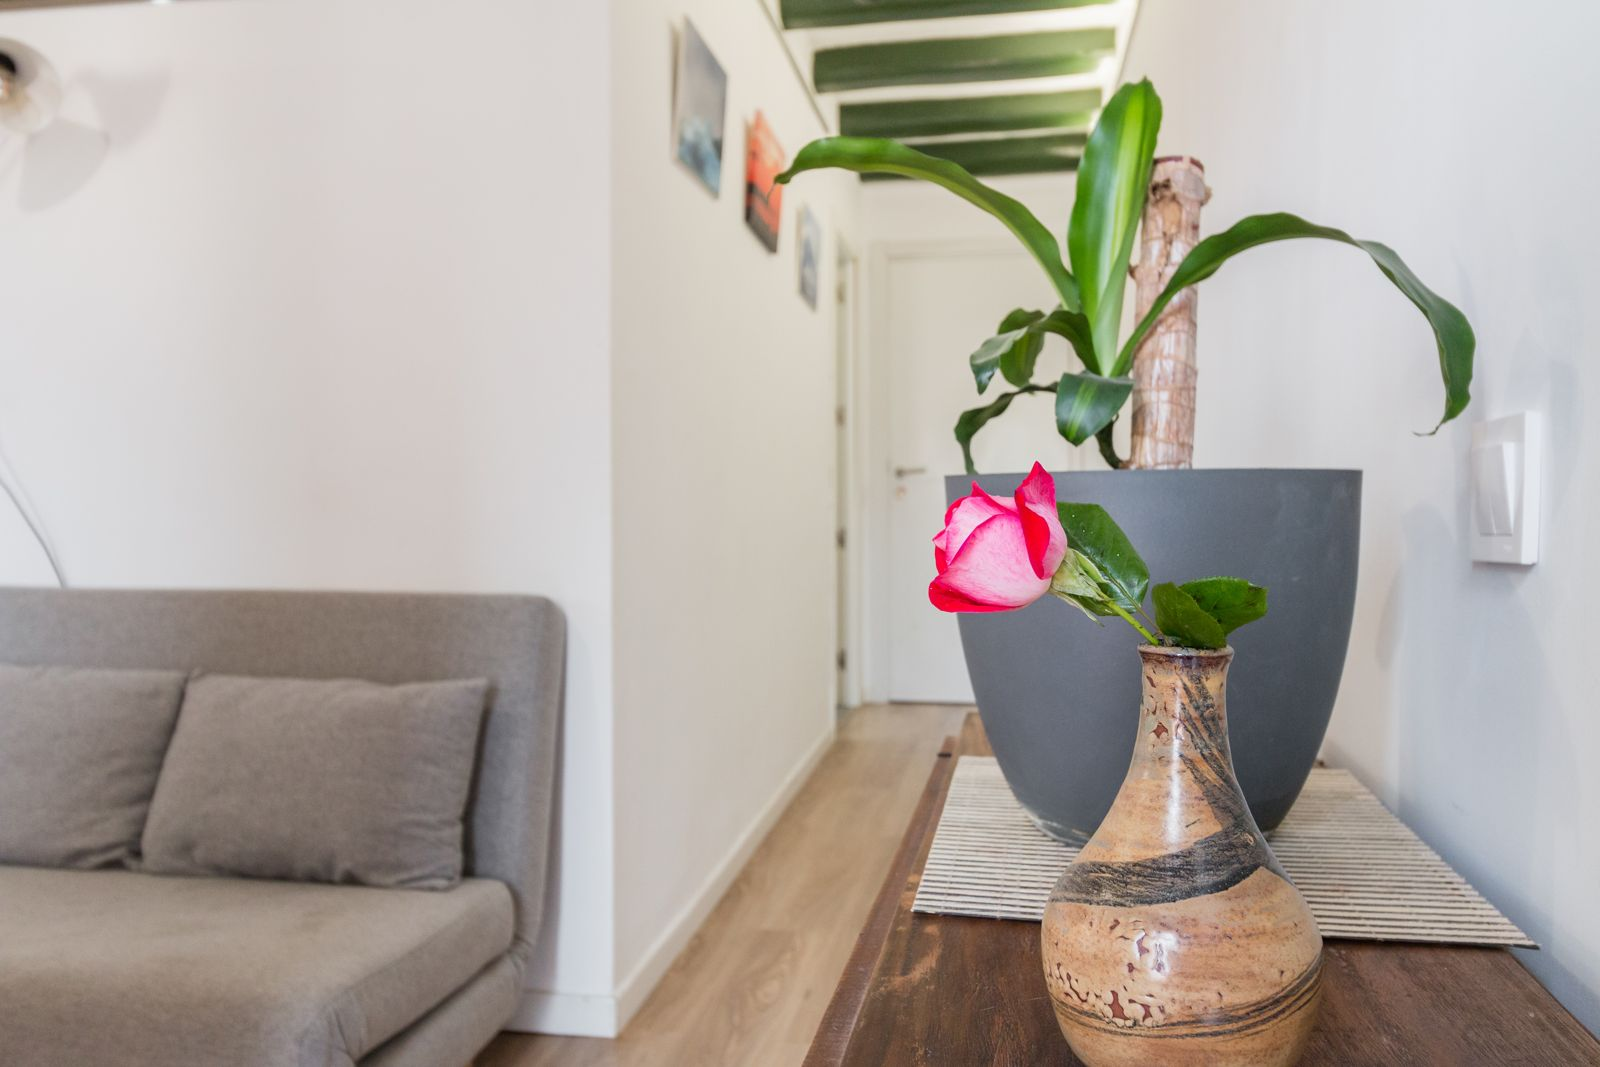
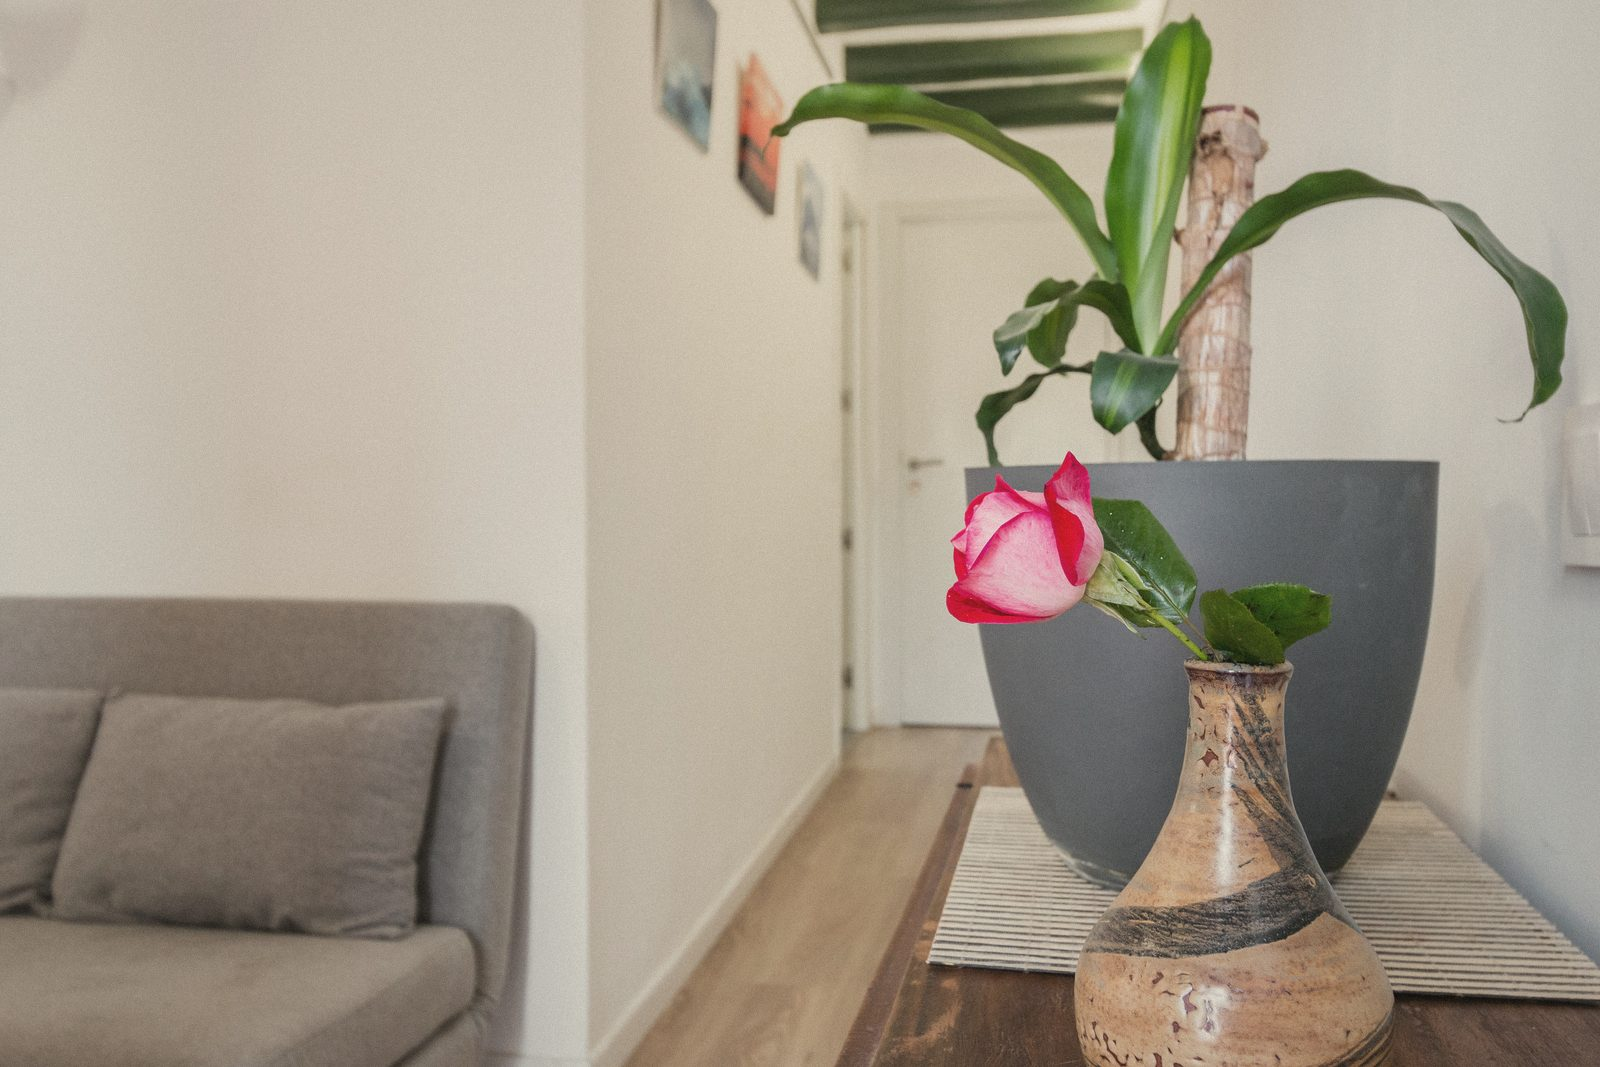
Add stay names, house history and photo grading
Name the four stays from the plaques (Montserrat, La Pineda, Les Vinyes,
Figarot), replace the history with the Casa Parellada story and old
street photo, and give the photos a warm matte grade.

Claude-Session: https://claude.ai/code/session_018oXTw1pRYaYtSRcFJqPyaA

diff --git a/hotel-website/index.html b/hotel-website/index.html
@@ -133,9 +133,34 @@ header.top { position: sticky; top: env(safe-area-inset-top, 0px); z-index: 20; 
 .apt-photos .more span { position: absolute; inset: 0; display: grid; place-items: center; background: rgba(15, 38, 20, .55); color: #f3efe4; font-size: 11.5px; font-weight: 600; letter-spacing: .2em; text-transform: uppercase; }
 @media (max-width: 880px) { .apt, .apt.flip { grid-template-columns: 1fr; } .apt.flip .apt-photos { order: 0; } }
 
+/* Name plaques */
+.plaques { display: grid; grid-template-columns: repeat(4, minmax(0, 1fr)); gap: 18px; }
+.plaques a { display: block; transition: transform .25s; }
+.plaques a:hover { transform: translateY(-4px); }
+.plaques img { width: 100%; height: auto; }
+.plaques-note { color: var(--muted); max-width: 60ch; margin-top: 22px; margin-bottom: clamp(48px, 7vw, 88px); }
+@media (max-width: 760px) { .plaques { grid-template-columns: 1fr 1fr; } }
+.soon { display: grid; grid-template-columns: 1fr 1fr; gap: 28px; }
+.soon article { display: grid; grid-template-columns: 140px minmax(0, 1fr); gap: 24px; align-items: center; padding: 20px; border: 1px solid var(--line); background: var(--paper); }
+.soon img { width: 100%; height: auto; }
+.soon article > div { display: grid; gap: 10px; justify-items: start; }
+.soon h3 { font-size: 30px; }
+.soon p { color: var(--muted); }
+@media (max-width: 880px) { .soon { grid-template-columns: 1fr; } }
+@media (max-width: 440px) { .soon article { grid-template-columns: 96px minmax(0, 1fr); gap: 16px; padding: 14px; } }
+
+/* History timeline */
+.timeline { list-style: none; margin: 0; padding: 0; border-top: 1px solid var(--line); width: 100%; }
+.timeline li { display: grid; grid-template-columns: 76px minmax(0, 1fr); gap: 18px; padding-block: 16px; border-bottom: 1px solid var(--line); }
+.timeline .year { font-family: var(--display); font-size: 22px; color: var(--basil); font-variant-numeric: tabular-nums; line-height: 1.3; }
+.timeline h3 { font-family: var(--body); font-weight: 600; font-size: 13px; letter-spacing: .16em; text-transform: uppercase; margin-bottom: 4px; }
+.timeline p { color: var(--muted); font-size: 16px; }
+.seal-head { display: grid; gap: 8px; margin-top: clamp(56px, 8vw, 96px); }
+.seal-head h3 { font-size: clamp(26px, 3vw, 34px); }
+
 /* Brand symbols = the house's story */
 .history { background: var(--paper); border-block: 1px solid var(--line); }
-.symbols { display: grid; grid-template-columns: repeat(5, minmax(0, 1fr)); gap: 0; border-top: 1px solid var(--line); margin-top: 52px; }
+.symbols { display: grid; grid-template-columns: repeat(5, minmax(0, 1fr)); gap: 0; border-top: 1px solid var(--line); margin-top: 24px; }
 .symbols article { padding: 26px 22px 6px 0; display: grid; gap: 8px; align-content: start; }
 .symbols article + article { padding-left: 22px; border-left: 1px solid var(--line); }
 .symbols h3 { font-size: 24px; }
@@ -193,7 +218,7 @@ footer .wrap { display: flex; justify-content: space-between; gap: 18px 32px; fl
 footer .wrap > div { display: flex; gap: 22px; flex-wrap: wrap; }
 </style>
 
-<div class="draft">Esborrany · Falten la història de la família, els noms dels allotjaments, la capacitat i les dades de contacte.</div>
+<div class="draft">Esborrany · Falten les fotos de Figarot i La Pineda, la capacitat de cada allotjament i les dades de contacte.</div>
 
 <header class="top">
   <div class="wrap">
@@ -237,7 +262,7 @@ footer .wrap > div { display: flex; gap: 22px; flex-wrap: wrap; }
 <section class="section intro" id="casa">
   <div class="wrap inner">
     <span class="label">La casa</span>
-    <p class="lede">Una casa de poble de 1898 al cor del Bedorc, entre vinyes, oliveres i feixes de pedra, amb Montserrat a l'horitzó. L'hem restaurada per viure-la a poc a poc: bigues de fusta a la vista, parets blanques i finestres que donen a la muntanya.</p>
+    <p class="lede">Una casa de poble construïda entre 1898 i 1900 al cor del Bedorc, entre vinyes, oliveres i feixes de pedra, amb Montserrat a l'horitzó. L'hem restaurada per viure-la a poc a poc: bigues de fusta a la vista, parets blanques i finestres que donen a la muntanya.</p>
   </div>
 </section>
 
@@ -248,7 +273,7 @@ footer .wrap > div { display: flex; gap: 22px; flex-wrap: wrap; }
       <span class="label">Restaurada amb respecte</span>
       <h2>Bigues de fusta, llum natural i el silenci del poble</h2>
       <p>Hem conservat les bigues de fusta, el terra hidràulic i els armaris antics, tot pintat del verd fosc que ara també és el nostre color. Hi hem afegit només el que fa falta per estar-hi bé: banys nous, aire condicionat i llits còmodes.</p>
-      <a class="btn" href="#apartaments">Veure els apartaments</a>
+      <a class="btn" href="#apartaments">Veure els allotjaments</a>
     </div>
   </div>
 </section>
@@ -259,8 +284,15 @@ footer .wrap > div { display: flex; gap: 22px; flex-wrap: wrap; }
       <div><span class="label">Allotjaments</span><h2>Dormir a La Casa Vella</h2></div>
       <a class="btn" href="#reservar">Consultar disponibilitat</a>
     </div>
+    <div class="plaques">
+      <a href="#montserrat"><img src="img/nom-montserrat.png" alt="Apartament Montserrat" loading="lazy"></a>
+      <a href="#la-pineda"><img src="img/nom-la-pineda.png" alt="Apartament La Pineda" loading="lazy"></a>
+      <a href="#les-vinyes"><img src="img/nom-les-vinyes.png" alt="Habitació Les Vinyes" loading="lazy"></a>
+      <a href="#figarot"><img src="img/nom-figarot.png" alt="Habitació Figarot" loading="lazy"></a>
+    </div>
+    <p class="plaques-note">Dos apartaments i dues habitacions, cadascun amb el nom d'un racó del paisatge: la muntanya, el pinar, les vinyes i la figuera.</p>
     <div class="units">
-      <article class="apt">
+      <article class="apt" id="montserrat">
         <div class="apt-photos" data-set="apt">
           <button class="main" data-i="0" aria-label="Ampliar foto"><div class="photo"><img src="img/apt-sala-2.jpg" alt="Sala de l'apartament amb bigues verdes, cuina i passadís"></div></button>
           <button data-i="1" aria-label="Ampliar foto"><div class="photo"><img src="img/apt-dormitori-3.jpg" alt="Dormitori doble amb vista a la sala" loading="lazy"></div></button>
@@ -270,7 +302,7 @@ footer .wrap > div { display: flex; gap: 22px; flex-wrap: wrap; }
         </div>
         <div class="apt-info">
           <span class="label">Apartament</span>
-          <h3>L'Apartament</h3>
+          <h3>Montserrat</h3>
           <div class="meta"><span>1 dormitori</span><span>Cuina pròpia</span><span>Sortida a l'exterior</span></div>
           <p>Un apartament lluminós sota les bigues de fusta pintades de verd. Té un dormitori doble, una sala amb sofà llit, cuina amb barra per esmorzar sobre rajola hidràulica i un bany amb dutxa. Al fons del passadís, una porta s'obre a les teulades del poble i a la muntanya.</p>
           <ul class="amen">
@@ -280,11 +312,11 @@ footer .wrap > div { display: flex; gap: 22px; flex-wrap: wrap; }
             <li>Aire condicionat i televisió</li>
             <li>Tovalloles i roba de llit incloses</li>
           </ul>
-          <a class="btn solid" href="#reservar">Reservar l'apartament</a>
+          <a class="btn solid" href="#reservar">Reservar Montserrat</a>
         </div>
       </article>
 
-      <article class="apt flip">
+      <article class="apt flip" id="les-vinyes">
         <div class="apt-photos" data-set="hab">
           <button class="main" data-i="0" aria-label="Ampliar foto"><div class="photo"><img src="img/hab-balco.jpg" alt="Habitació doble amb llit de forja verd, terra hidràulic i balcó" loading="lazy"></div></button>
           <button data-i="1" aria-label="Ampliar foto"><div class="photo"><img src="img/hab-llit.jpg" alt="Llit de forja amb dues tauletes i llums d'ampolla" loading="lazy"></div></button>
@@ -294,7 +326,7 @@ footer .wrap > div { display: flex; gap: 22px; flex-wrap: wrap; }
         </div>
         <div class="apt-info">
           <span class="label">Habitació</span>
-          <h3>L'Habitació</h3>
+          <h3>Les Vinyes</h3>
           <div class="meta"><span>2 persones</span><span>Bany privat</span><span>Balcó</span></div>
           <p>Una habitació amb caràcter: llit de forja verd, terra hidràulic, un armari antic de portes de fusta i un balcó que dona al carrer del poble. A les tauletes, llums fets amb ampolles de cava.</p>
           <ul class="amen">
@@ -304,9 +336,20 @@ footer .wrap > div { display: flex; gap: 22px; flex-wrap: wrap; }
             <li>Aire condicionat</li>
             <li>Tovalloles i roba de llit incloses</li>
           </ul>
-          <a class="btn solid" href="#reservar">Reservar l'habitació</a>
+          <a class="btn solid" href="#reservar">Reservar Les Vinyes</a>
         </div>
       </article>
+
+      <div class="soon">
+        <article id="la-pineda">
+          <img src="img/nom-la-pineda.png" alt="" loading="lazy">
+          <div><span class="label">Apartament</span><h3>La Pineda</h3><p>Fotos i descripció properament.</p><a class="btn" href="#contacte">Demanar informació</a></div>
+        </article>
+        <article id="figarot">
+          <img src="img/nom-figarot.png" alt="" loading="lazy">
+          <div><span class="label">Habitació</span><h3>Figarot</h3><p>Fotos i descripció properament.</p><a class="btn" href="#contacte">Demanar informació</a></div>
+        </article>
+      </div>
     </div>
   </div>
 </section>
@@ -314,13 +357,20 @@ footer .wrap > div { display: flex; gap: 22px; flex-wrap: wrap; }
 <section class="section history" id="historia">
   <div class="wrap">
     <div class="split flip">
-      <div class="media"><div class="photo"><img src="img/hab-armari.jpg" alt="Armari antic de portes de fusta pintades de verd" loading="lazy"></div></div>
+      <div class="media"><div class="photo"><img src="img/historia-carrer.jpg" alt="Carrer del Bedorc, foto antiga que es fon amb la foto actual" loading="lazy"></div></div>
       <div class="text">
-        <span class="label">Història · 1898</span>
-        <h2>Una casa que recorda el nom de les coses</h2>
-        <p>La Casa Vella es va construir el 1898 al Bedorc, un racó on la vida sempre ha anat lligada a la terra: la vinya, l'oliva, les collites i els animals. El nostre segell recull aquesta memòria en cinc elements, cadascun amb el seu significat.</p>
+        <span class="label">Història · Casa Parellada</span>
+        <h2>Una casa de pagès que torna a tenir vida</h2>
+        <ol class="timeline">
+          <li><span class="year">1898</span><div><h3>La construcció</h3><p>La casa es va construir entre els anys 1898 i 1900.</p></div></li>
+          <li><span class="year">S. XX</span><div><h3>Anys de pagesia</h3><p>Durant molts anys els propietaris van viure de la pagesia.</p></div></li>
+          <li><span class="year">&nbsp;</span><div><h3>L'ampliació</h3><p>S'hi van afegir una cort, un galliner i una petita quadra pel «Macho», el cavall que treballava la terra i transportava les collites.</p></div></li>
+          <li><span class="year">&nbsp;</span><div><h3>La casa buida</h3><p>La família es va anar fent gran i, sense descendència, la casa va quedar buida.</p></div></li>
+          <li><span class="year">Avui</span><div><h3>La Casa Vella</h3><p>Ara forma part del projecte de la nostra família.</p></div></li>
+        </ol>
       </div>
     </div>
+    <div class="seal-head"><span class="label">El nostre segell</span><h3>Cinc elements del Bedorc</h3></div>
     <div class="symbols">
       <article><span class="label">I</span><h3>Fulla de parra</h3><p>La tradició vitivinícola que ha modelat el paisatge i la vida de la casa durant segles.</p></article>
       <article><span class="label">II</span><h3>Raïm</h3><p>L'abundància de les collites i la història agrícola de la terra fèrtil del Bedorc.</p></article>
